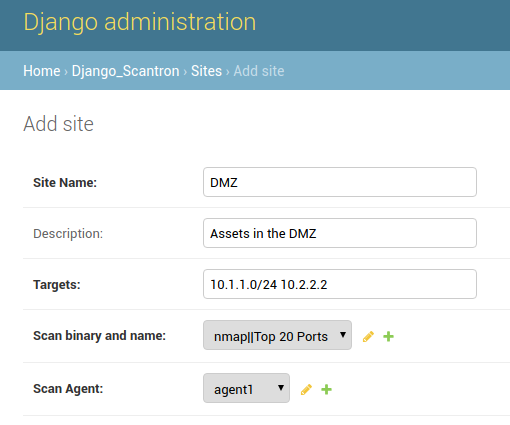
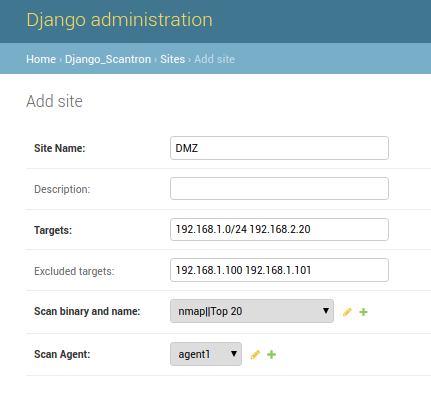
Replace all mentions of Splunk with big data analytics

diff --git a/master/scan_results/nmap_to_csv.py b/master/scan_results/nmap_to_csv.py
@@ -13,7 +13,7 @@ from libnmap.parser import NmapParser
 
 class ScanEvent:
 
-    # Variables that will eventually be fields in Splunk.
+    # Variables that will eventually be fields in big data analytics platform.
     def __init__(self):
         self.start_time = ""
         self.end_time = ""
@@ -45,8 +45,6 @@ class ScanEvent:
 def export_to_csv(events, output):
     output = output.replace(".xml", ".csv")
     if len(events) != 0:
-        # print(output)
-        # print(events)
 
         header_fields = [
             "starttime",
@@ -75,13 +73,12 @@ def main():
     # Build directory paths.
     complete_dir = os.path.join(root_dir, "scan_results", "complete")
     processed_dir = os.path.join(root_dir, "scan_results", "processed")
-    for_splunk_dir = os.path.join(root_dir, "for_splunk")
+    bigdata_analytics_dir = os.path.join(root_dir, "for_bigdata_analytics")
 
     # Grab a list of xml files from the "complete" folder.
     xml_scans = glob.glob(os.path.join(complete_dir, "*.xml"))
 
-    # Loop through all valid xml files and export them to csv files.
-    # Then move them to the "processed" directory.
+    # Loop through all valid xml files and export them to csv files, then move them to the "processed" directory.
     for scan in xml_scans:
 
         try:
@@ -120,8 +117,8 @@ def main():
 
                         events.append(event)
 
-            # The file has been completely parsed...create csv files in 'for_splunk' directory.
-            export_to_csv(events, os.path.join(for_splunk_dir, os.path.basename(scan)))
+            # The file has been completely parsed...create csv files in "for_bigdata_analytics" directory.
+            export_to_csv(events, os.path.join(bigdata_analytics_dir, os.path.basename(scan)))
 
             # Extract the base file name from the .xml scan file name.
             base_scan_file_name = os.path.basename(scan).split(".xml")[0]
@@ -130,7 +127,7 @@ def main():
             base_scan_files = glob.glob(os.path.join(complete_dir, f"{base_scan_file_name}*"))
 
             # csv files have been created, move all nmap scan file types from "completed" to "processed" folder.
-            # extract file name and rebuild full path for destination
+            # Extract file name and rebuild full path for destination.
             for scan_file in base_scan_files:
                 shutil.move(
                     scan_file,  # source

diff --git a/master/scan_results/masscan_json_to_csv.py b/master/scan_results/masscan_json_to_csv.py
@@ -71,7 +71,7 @@ def main():
     # Build directory paths.
     complete_dir = os.path.join(root_dir, "scan_results", "complete")
     processed_dir = os.path.join(root_dir, "scan_results", "processed")
-    for_splunk_dir = os.path.join(root_dir, "for_splunk")
+    bigdata_analytics_dir = os.path.join(root_dir, "for_bigdata_analytics")
 
     # Grab a list of json files from the "complete" folder.
     json_scans = glob.glob(os.path.join(complete_dir, "*.json"))
@@ -89,7 +89,6 @@ def main():
         # "scan" variable is constructed as "result_file_base_name" in master/scan_scheduler.py
         scan_file_name = os.path.basename(scan)
         site_name = scan_file_name.split("__")[0]
-        # scan_agent = scan_file_name.split("__")[1]
 
         with open(scan, "r") as fh:
 
@@ -101,7 +100,7 @@ def main():
                 try:
                     for port in result["ports"]:
 
-                        # Conforming key values to what Splunk is expecting with
+                        # Conforming key values to what big data analytics platform is expecting with
                         # scantron/master/scan_results/nmap_to_csv.py
                         result_dict = {
                             "starttime": result["timestamp"],
@@ -138,12 +137,12 @@ def main():
                     print(f"Issue with parsing scan: {result}.  Exception: {e}")
                     sys.exit(0)
 
-        # The file has been completely parsed...create csv files in "for_splunk" directory.
+        # The file has been completely parsed...create csv files in "for_bigdata_analytics" directory.
         base_scan_file_name = os.path.basename(scan).split(".json")[0]
         masscan_csv_file_name = f"{base_scan_file_name}.csv"
 
-        # Pass results and full file path to "for_splunk" directory.
-        write_results_to_csv_file(results_list, os.path.join(for_splunk_dir, masscan_csv_file_name))
+        # Pass results and full file path to "for_bigdata_analytics" directory.
+        write_results_to_csv_file(results_list, os.path.join(bigdata_analytics_dir, masscan_csv_file_name))
 
         # csv files have been created, move all .json scan file types from "completed" to "processed" folder.
         shutil.move(scan, processed_dir)  # (source, destination)

diff --git a/agent/modules/scanner.py b/agent/modules/scanner.py
@@ -39,7 +39,7 @@ def scan_site(scan_job_dict):
         scan_job_id = scan_job["id"]
         site_name = scan_job["site_name"]
         scan_binary = scan_job["scan_binary"]
-        scan_command = scan_job["scan_command"]  # Also used for masscan.
+        scan_command = scan_job["scan_command"]
         result_file_base_name = scan_job["result_file_base_name"]
 
         http_useragent = config_data["http_useragent"]

diff --git a/README.md b/README.md
@@ -490,7 +490,8 @@ Source: <https://security.stackexchange.com/questions/78618/is-there-a-nmap-comm
 
     * IPs, IP subnets, and FQDNs are allowed.
     * IP ranges (`192.168.1.0-10`) are not currently supported.
-    * The targets are validated using `master/extract_targets.py`, which can also be used as a stand alone script.
+    * The targets and excluded_targets are validated using `master/extract_targets.py`, which can also be used as a
+      stand alone script.
 
     ![create_site](./img/create_site.png)
 
@@ -504,7 +505,7 @@ Source: <https://security.stackexchange.com/questions/78618/is-there-a-nmap-comm
 
     ![create_scan](./img/create_scan.png)
 
-5. View pending scans
+5. View currently executing scan results
 
     ```bash
     cd /home/scantron/master/scan_results/pending
@@ -528,7 +529,7 @@ Source: <https://security.stackexchange.com/questions/78618/is-there-a-nmap-comm
 
     `/home/scantron/master/scan_results/processed` - nmap scan files already processed by nmap_to_csv.py reside here.
 
-    `/home/scantron/master/for_splunk` - csv files for Spulnk ingestion
+    `/home/scantron/master/for_bigdata_analytics` - csv files for big data analytics ingestion
 
 ## API Documentation
 
